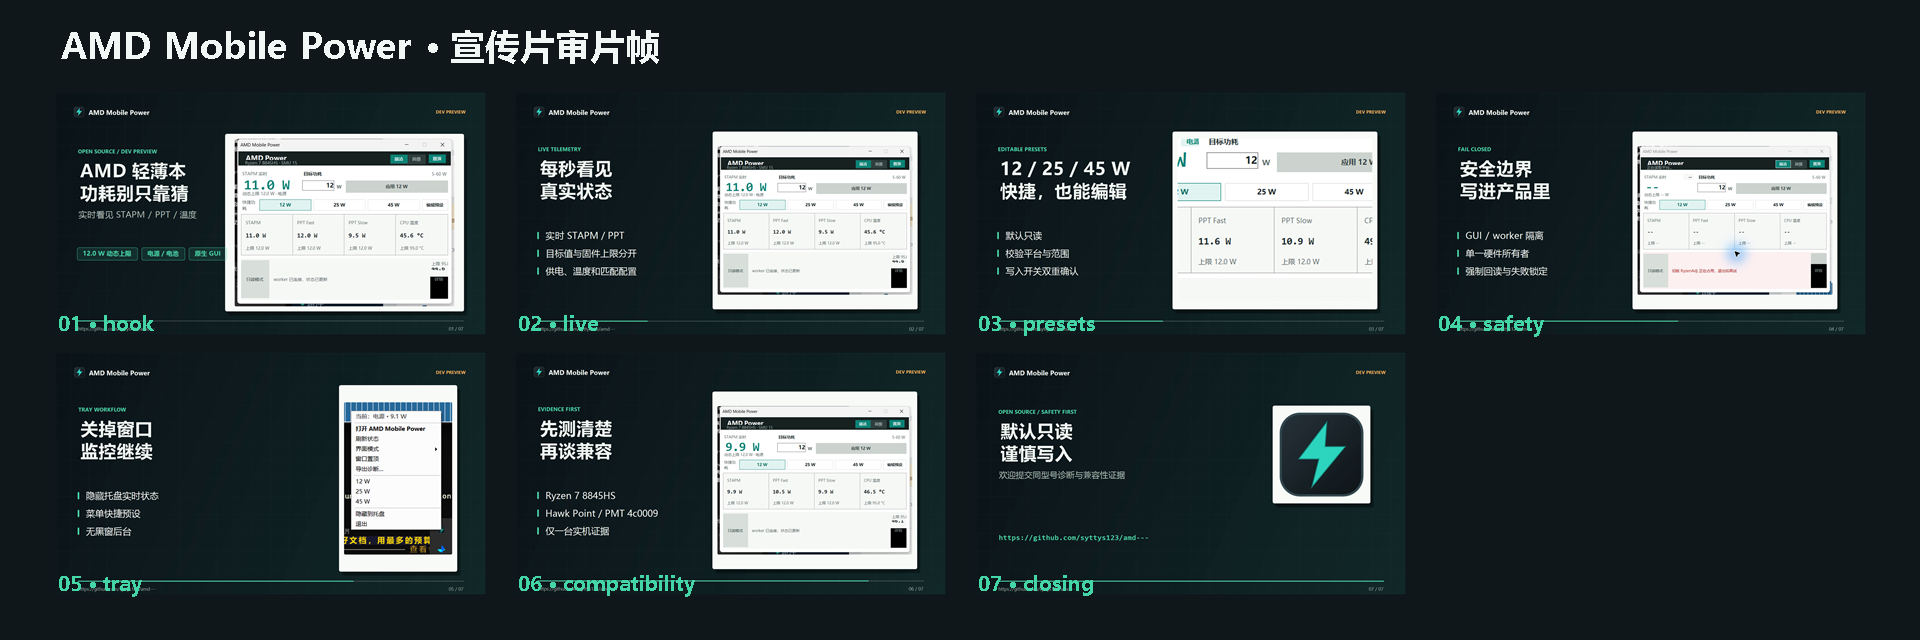
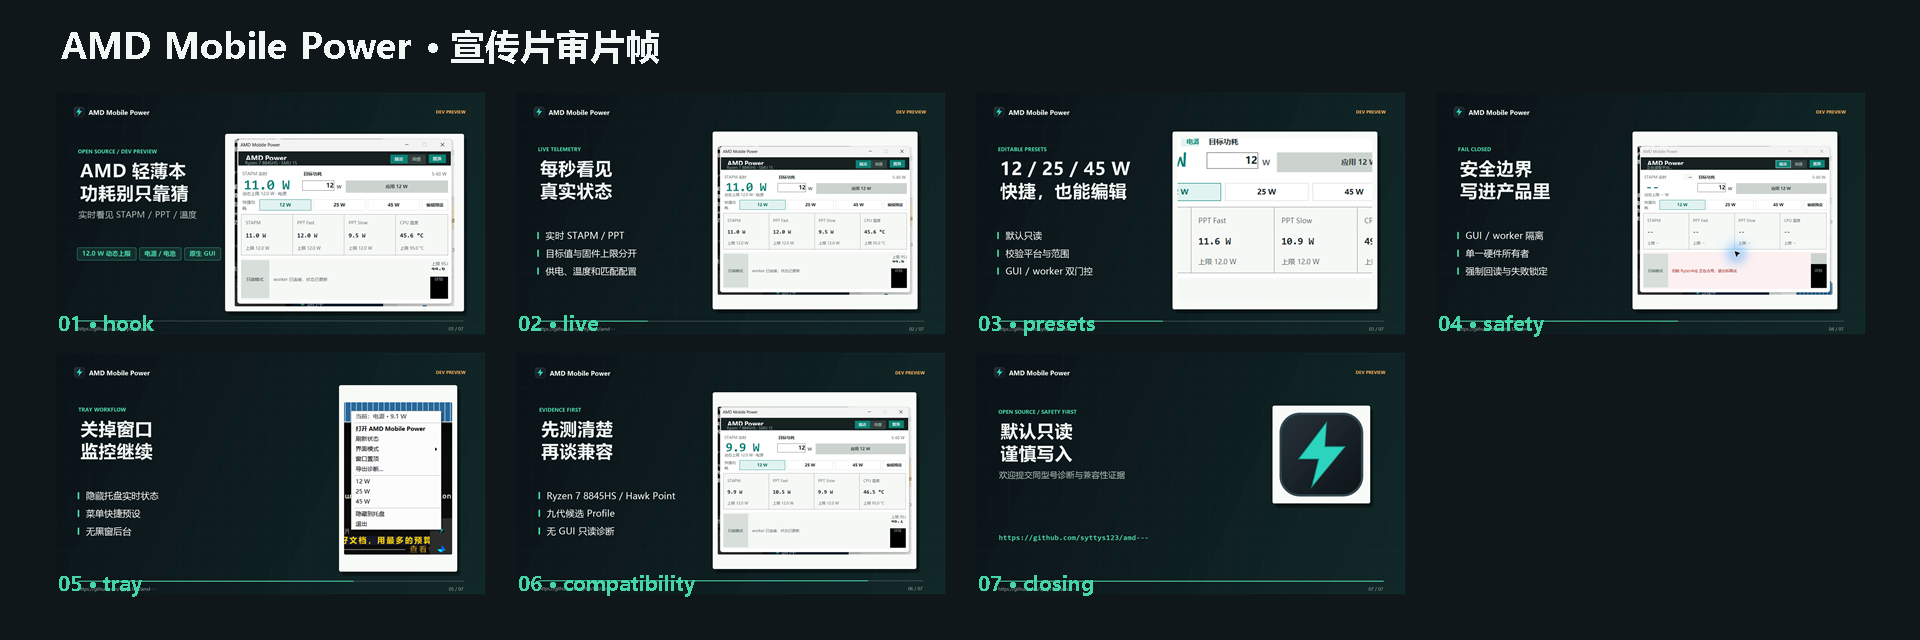
feat(media): 更新宣传片并加入渲染质量门禁
宣传片补充无 GUI 只读诊断能力并修正首页徽标与截图卡片的潜在重叠。渲染器现在会在编码前检查中文标题、字幕和要点安全范围，并在出片后强制验证完整解码、平均音量和峰值音量。

diff --git a/docs/PROMO_VIDEO.md b/docs/PROMO_VIDEO.md
@@ -6,7 +6,7 @@ process and performs no hardware write.
 
 ## Current Draft
 
-The current draft is 71.9 seconds at 1920x1080, 25 fps, with H.264 video, AAC
+The current draft is 77.1 seconds at 1920x1080, 25 fps, with H.264 video, AAC
 stereo audio, Chinese narration, and simplified-Chinese captions. It is marked
 `DRAFT_FOR_HUMAN_REVIEW`; it is not approved for upload.
 
@@ -21,11 +21,11 @@ artifacts/media/amd-mobile-power-promo-draft-2026-11-10/
   amd-mobile-power-intro-draft-2026-11-10.mp4
 ```
 
-- Size: 17,923,909 bytes.
+- Size: 18,821,110 bytes.
 - SHA256:
[2 lines of base64/hex data omitted]
 - Full-file FFmpeg decode: PASS.
-- Audio level: mean `-21.1 dB`, peak `-1.3 dB`.
+- Audio level: mean `-21.2 dB`, peak `-1.3 dB`.
 - Title, caption, and bullet safe-width checks: PASS.
 - Scene count: 7.
 
@@ -54,6 +54,10 @@ artifacts/media/amd-mobile-power-promo-draft-2026-11-10/
 Generated scene PNGs and WAV files are retained by default for review. Use
 `-CleanWorkingFiles` when only the final MP4, captions, cover, manifest, and
 review frames are needed.
+
+The renderer enforces scene text bounds before encoding and runs full-decode,
+mean-volume, and peak-volume checks before writing the manifest. A failed text
+or audio bound stops the render instead of producing an accepted draft.
 
 ## Review Gate
 

diff --git a/docs/DEV_STATUS.md b/docs/DEV_STATUS.md
@@ -513,8 +513,9 @@ third_party/
   and false menu captures by requiring the context menu to open upward and
   remain horizontally anchored to the notification icon.
 - Added `render-promo.ps1` and the JSON storyboard for a reproducible Chinese
-  development-preview video. The current draft is 71.9 seconds at 1920x1080,
-  passes full FFmpeg decode and text safe-width checks, and remains
+  development-preview video. The current draft is 77.1 seconds at 1920x1080,
+  includes the read-only diagnostics collector, enforces text safe-width
+  bounds, passes full FFmpeg decode and audio-level checks, and remains
   `DRAFT_FOR_HUMAN_REVIEW`.
 - Implemented the versioned `shutdown` worker command with a
   response-before-exit test; GUI teardown now tries graceful shutdown before

diff --git a/docs/MEDIA_PLAN.md b/docs/MEDIA_PLAN.md
@@ -157,7 +157,7 @@ hash manifest under `artifacts/media`.
 The output is intentionally marked `DRAFT_FOR_HUMAN_REVIEW`. Rendering the file
 does not satisfy the publication gate and does not log in to GitHub or Bilibili.
 
-Current draft status: rendered at 71.9 seconds in 1920x1080 with Chinese
+Current draft status: rendered at 77.1 seconds in 1920x1080 with Chinese
 narration and captions. Cover and contact-sheet review assets are committed;
 the MP4 remains under ignored `artifacts/media`. Project-owner review is still
 pending.
